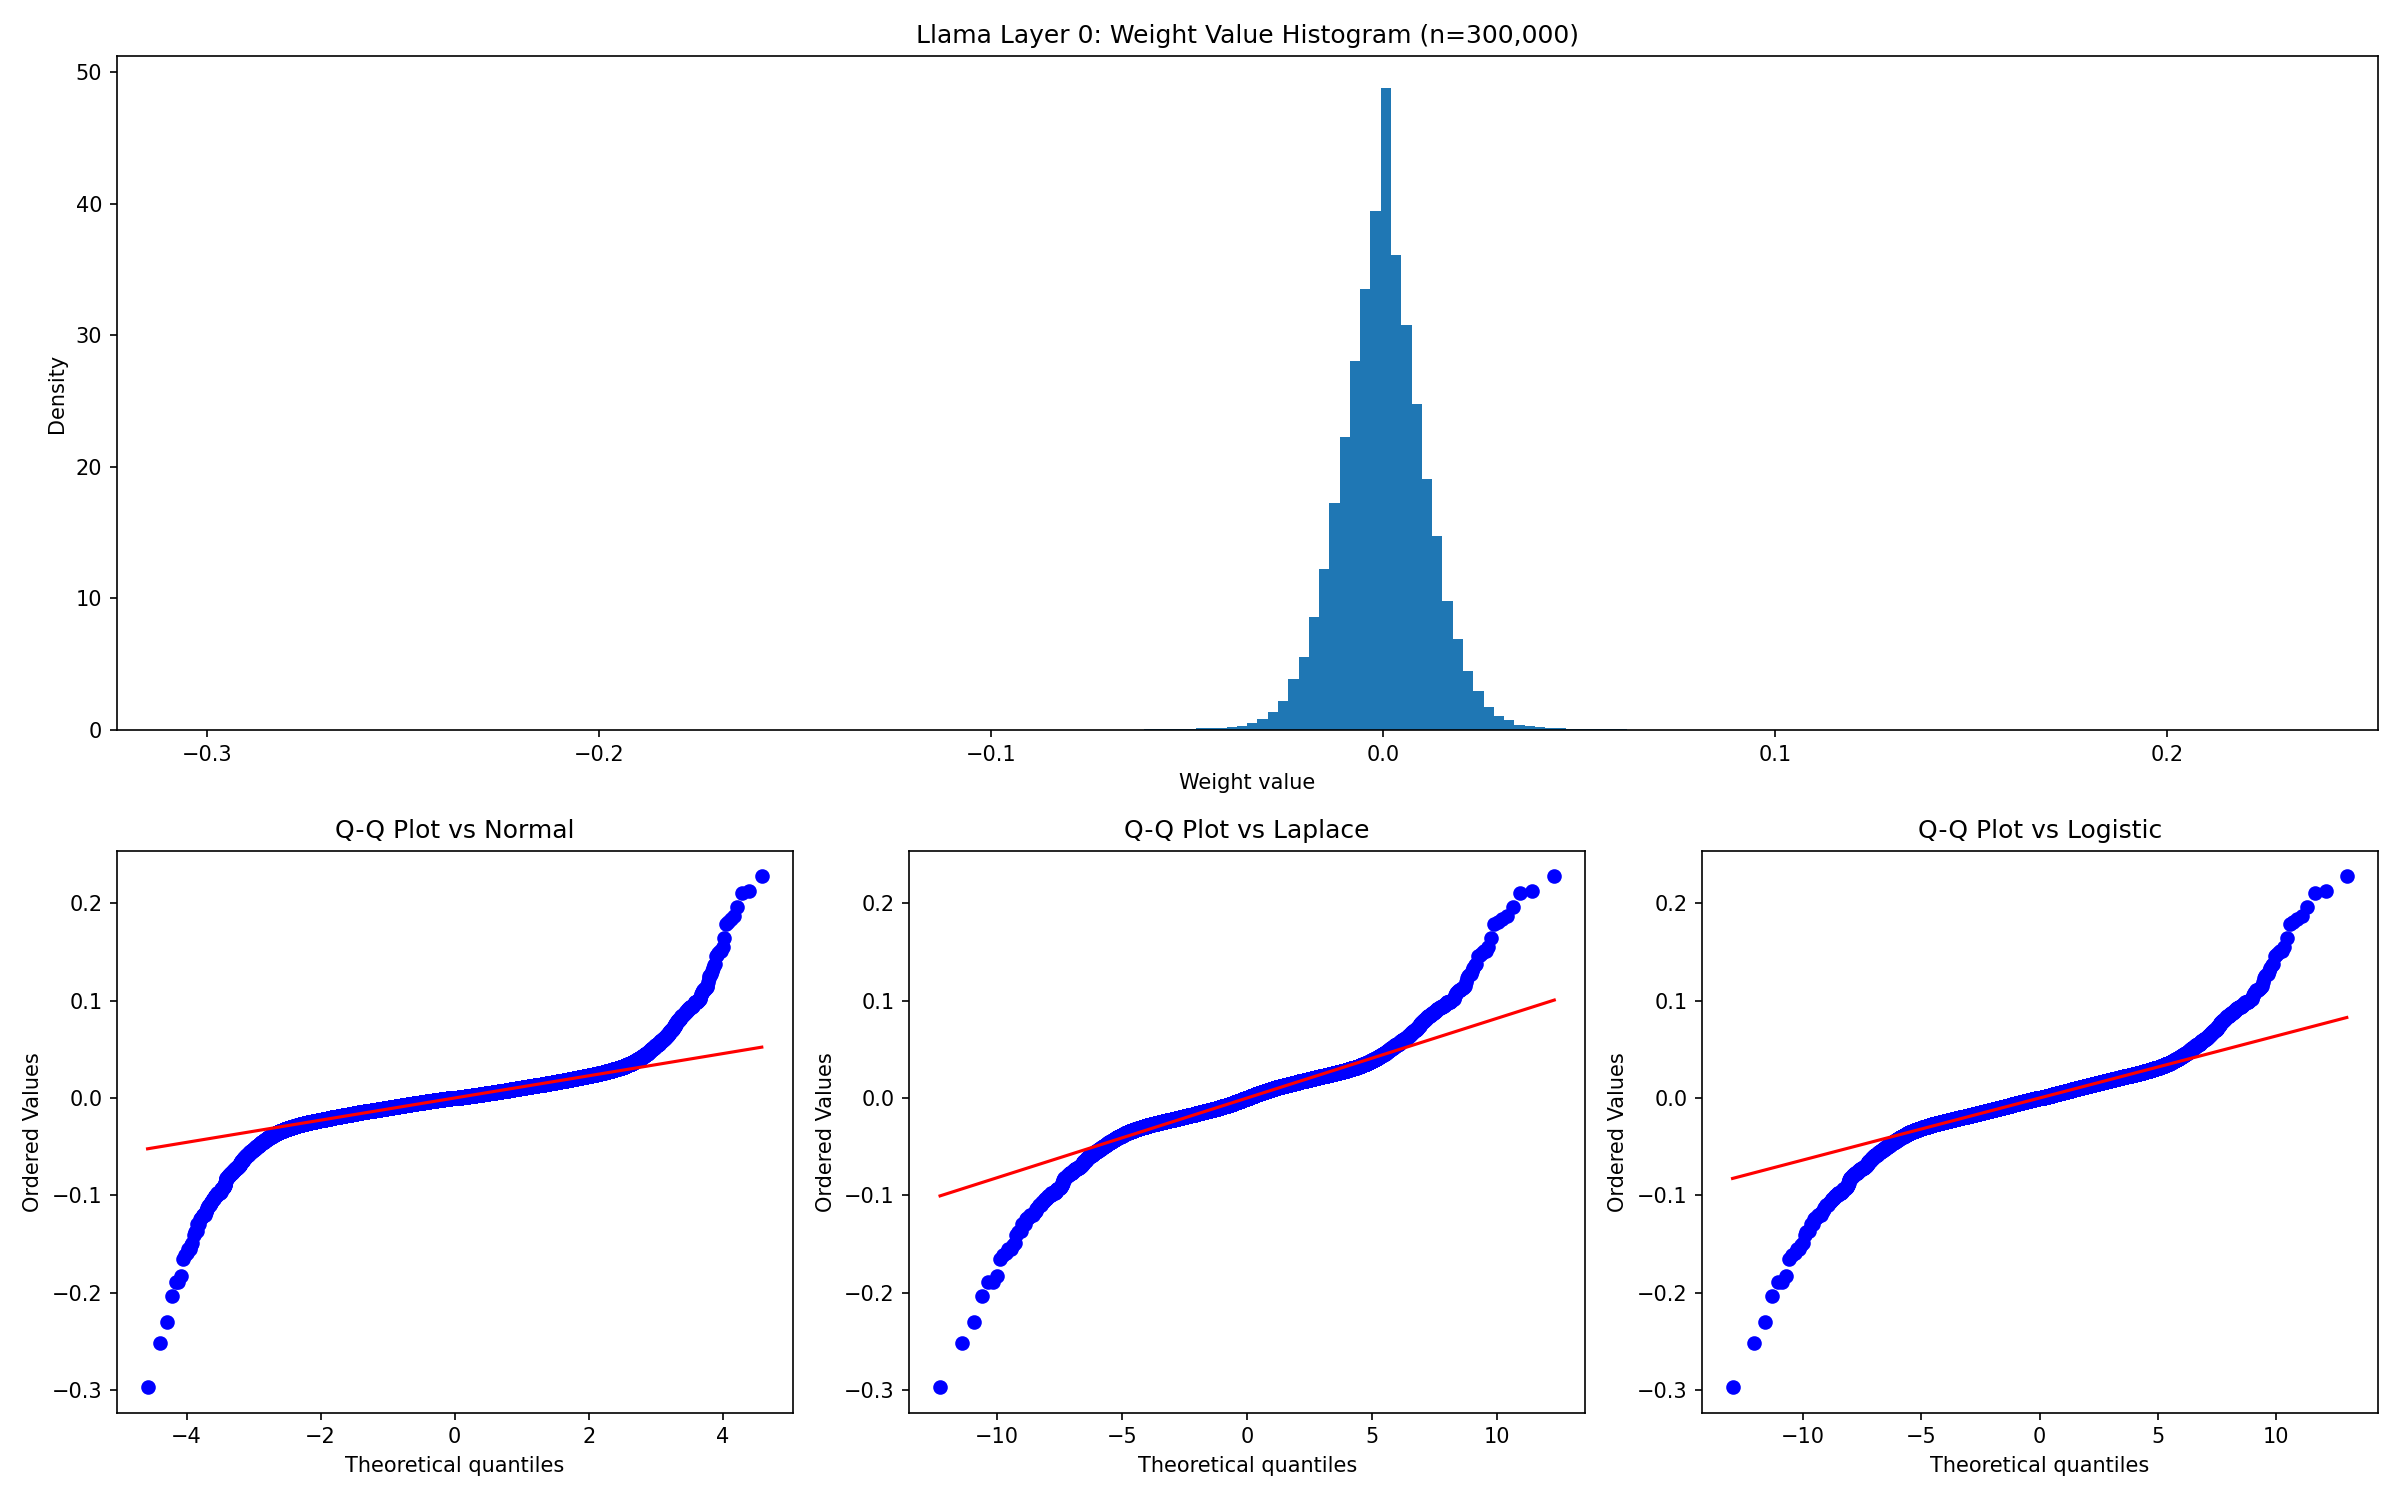
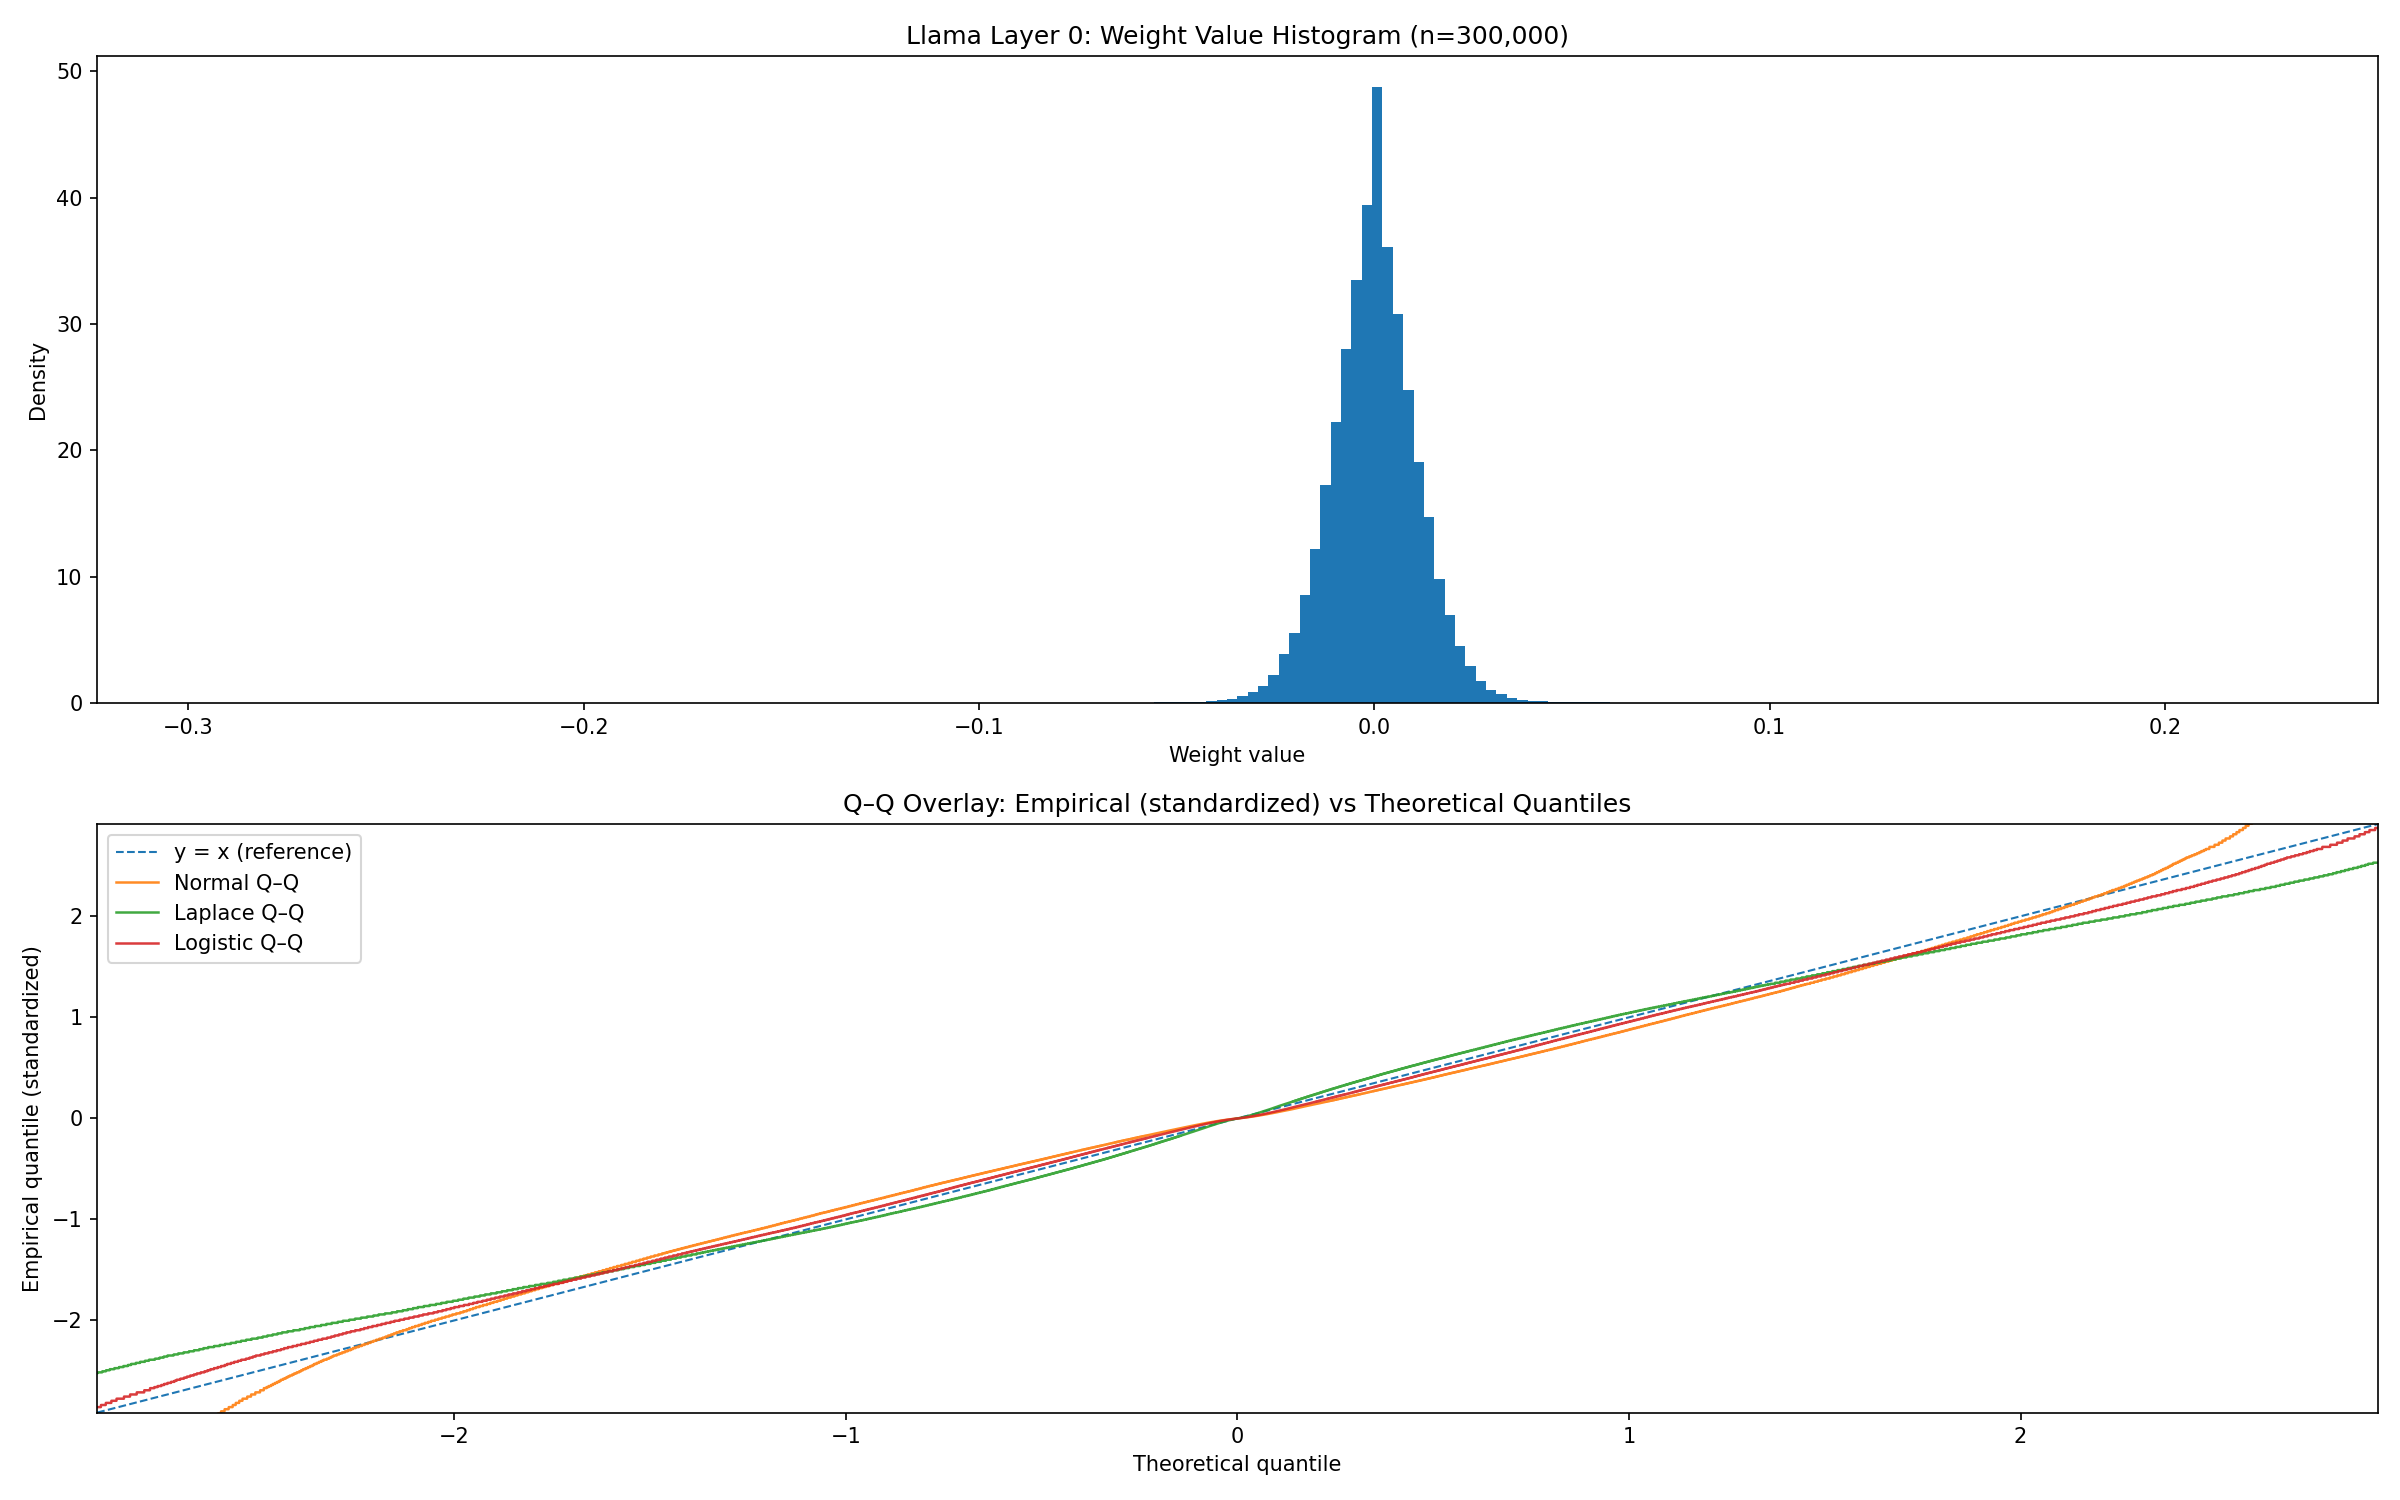
adjusted plots

diff --git a/llama_weight_distributions.py b/llama_weight_distributions.py
@@ -137,45 +137,85 @@ def reservoir_sample_array_stream(stream: Iterable[np.ndarray], k: int, rng: ran
     return reservoir
 
 
+
 def make_hist_and_qq(layer_idx: int, sample: np.ndarray, bins: int, outdir: str):
     """
-    Create a figure with:
-      - Top: Histogram of weights (full width)
-      - Bottom: 3 Q-Q plots (Normal, Laplace, Logistic), side by side
+    Top: histogram of weights.
+    Bottom: single Q–Q plot overlaying Normal, Laplace, Logistic theoretical quantiles
+            against empirical (standardized) sample quantiles. Includes a legend.
     Saves to outdir/layer_{idx:02d}_weights.png
     """
     if sample.size == 0:
         print(f"[Layer {layer_idx}] No weights found; skipping.")
         return
 
-    # 2 rows x 3 columns; top row spans all 3 columns
-    fig = plt.figure(figsize=(16, 10))
-    gs = fig.add_gridspec(2, 3, height_ratios=[1.2, 1.0])
+    # --- Prepare empirical standardized quantiles ---
+    x = np.sort(sample.astype(np.float64))
+    mu = np.mean(x)
+    sigma = np.std(x, ddof=1)
+    if sigma == 0 or not np.isfinite(sigma):
+        print(f"[Layer {layer_idx}] Degenerate variance; skipping QQ.", file=sys.stderr)
+        return
 
-    # Histogram across the entire top row
-    ax_hist = fig.add_subplot(gs[0, :])
+    z = (x - mu) / sigma  # empirical z-quantiles
+    n = z.size
+    # Use plotting positions (i - 0.5)/n for stability
+    p = (np.arange(1, n + 1) - 0.5) / n
+
+    # --- Theoretical quantiles with unit variance ---
+    # Normal: std=1 already
+    q_norm = stats.norm.ppf(p, loc=0, scale=1.0)
+    # Laplace with unit variance -> scale = 1/sqrt(2)
+    q_lap  = stats.laplace.ppf(p, loc=0, scale=1.0 / np.sqrt(2.0))
+    # Logistic with unit variance -> scale = sqrt(3)/pi
+    q_log  = stats.logistic.ppf(p, loc=0, scale=np.sqrt(3.0) / np.pi)
+
+    # --- Figure layout: 2 rows (hist on top; QQ overlay bottom) ---
+    fig = plt.figure(figsize=(16, 10))
+    gs = fig.add_gridspec(2, 1, height_ratios=[1.1, 1.0])
+
+    # Histogram
+    ax_hist = fig.add_subplot(gs[0, 0])
     ax_hist.hist(sample, bins=bins, density=True)
     ax_hist.set_title(f"Llama Layer {layer_idx}: Weight Value Histogram (n={sample.size:,})")
     ax_hist.set_xlabel("Weight value")
     ax_hist.set_ylabel("Density")
 
-    # Q-Q plots: Normal, Laplace, Logistic in the bottom row
-    dists = [("Normal", "norm"), ("Laplace", "laplace"), ("Logistic", "logistic")]
-    for j, (name, dist_name) in enumerate(dists):
-        ax = fig.add_subplot(gs[1, j])
-        if dist_name == "norm":
-            stats.probplot(sample, dist="norm", plot=ax)
-        else:
-            stats.probplot(sample, dist=getattr(stats, dist_name), plot=ax)
-        ax.set_title(f"Q-Q Plot vs {name}")
+    # Q–Q overlay
+    ax = fig.add_subplot(gs[1, 0])
 
-    # Layout + save
+    # Reference 45° line: y = x
+    # Choose symmetric range that covers all theoretical quantiles
+    q_all = np.concatenate([q_norm, q_lap, q_log])
+    q_min, q_max = np.percentile(q_all, [0.5, 99.5])
+    lim = max(abs(q_min), abs(q_max))
+    ax.plot([-lim, lim], [-lim, lim], linestyle="--", linewidth=1, label="y = x (reference)")
+
+    # Plot empirical vs theoretical for each distribution
+    # (theoretical on x-axis, empirical standardized on y-axis)
+    ax.plot(q_norm, z, linewidth=1.2, alpha=0.9, label="Normal Q–Q")
+    ax.plot(q_lap,  z, linewidth=1.2, alpha=0.9, label="Laplace Q–Q")
+    ax.plot(q_log,  z, linewidth=1.2, alpha=0.9, label="Logistic Q–Q")
+
+    ax.set_xlim(-lim, lim)
+    # Match y-limits to x for fair visual comparison
+    z_min, z_max = np.percentile(z, [0.5, 99.5])
+    lim_y = max(abs(z_min), abs(z_max), lim)
+    ax.set_ylim(-lim_y, lim_y)
+
+    ax.set_title("Q–Q Overlay: Empirical (standardized) vs Theoretical Quantiles")
+    ax.set_xlabel("Theoretical quantile")
+    ax.set_ylabel("Empirical quantile (standardized)")
+    ax.legend(loc="best", frameon=True)
+
     fig.tight_layout()
     os.makedirs(outdir, exist_ok=True)
     outfile = os.path.join(outdir, f"layer_{layer_idx:02d}_weights.png")
     fig.savefig(outfile, dpi=150)
     plt.close(fig)
     print(f"[Layer {layer_idx}] Saved {outfile}")
+
+
 
 
 def main():
